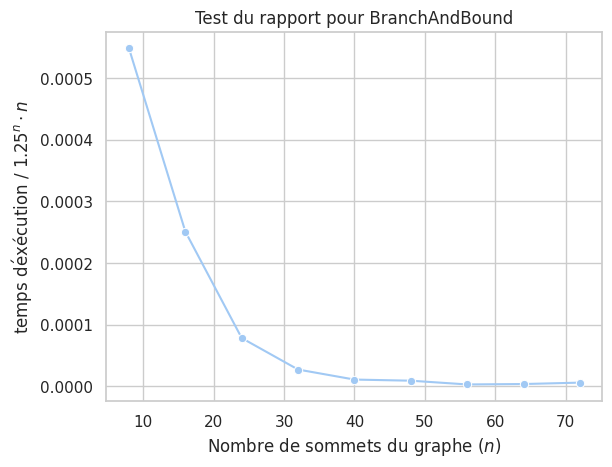
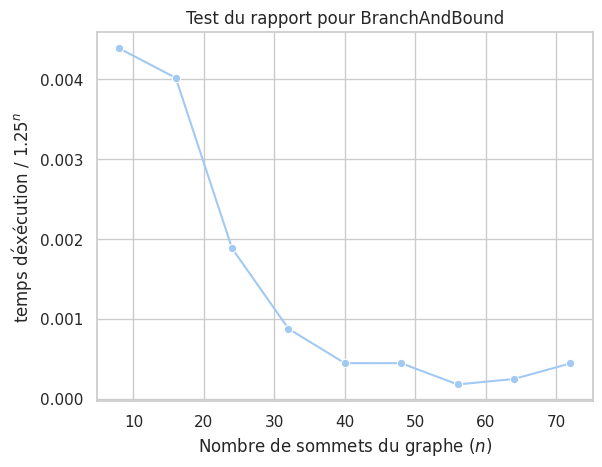
Regenerate graphs for complexity analysis with new function for branch and bound

Changed region(s): [[0.0, 0.0, 0.9867, 0.9893], [0.5083, 0.7195, 0.5382, 0.7495]]

diff --git a/TP2/analyze.py b/TP2/analyze.py
@@ -30,8 +30,8 @@ THEORETICAL_COMPLEXITY_FUNCTIONS = {
         'string': '{}^3',
     },
     'BranchAndBound': {
-        'function': lambda x: np.power(1.25, x) * x,
-        'string': '1.25^{0} \cdot {0}',
+        'function': lambda x: np.power(1.25, x),
+        'string': '1.25^{}',
     },
     'Tabu': {
         'function': lambda x: np.power(x, 3),
